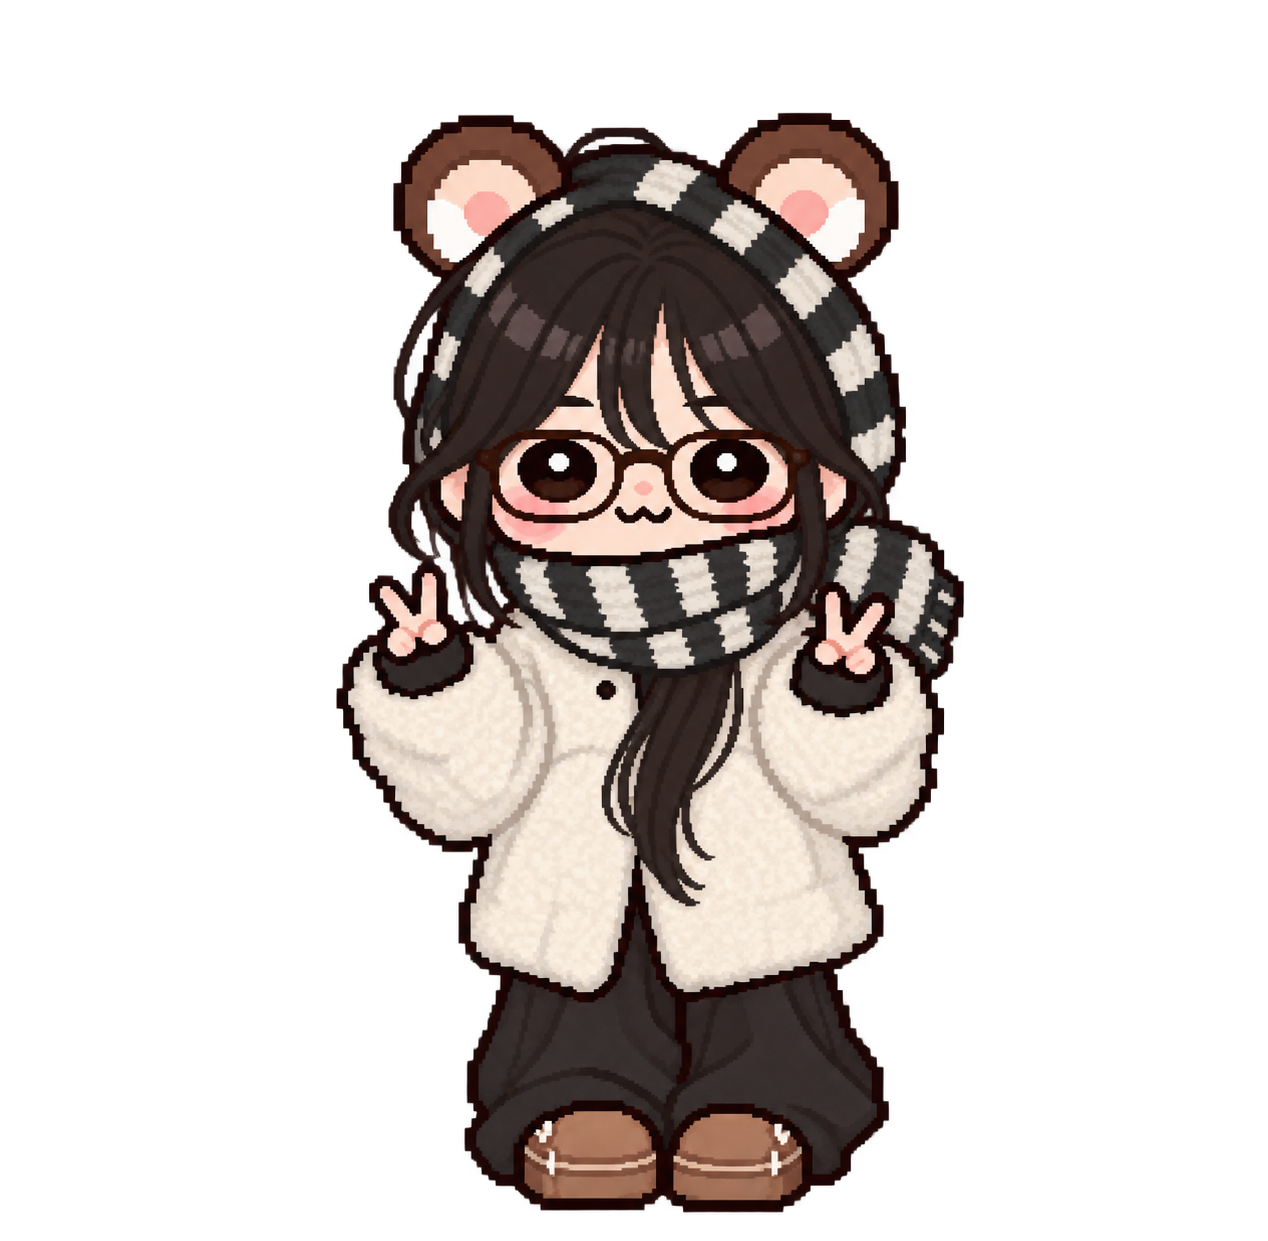
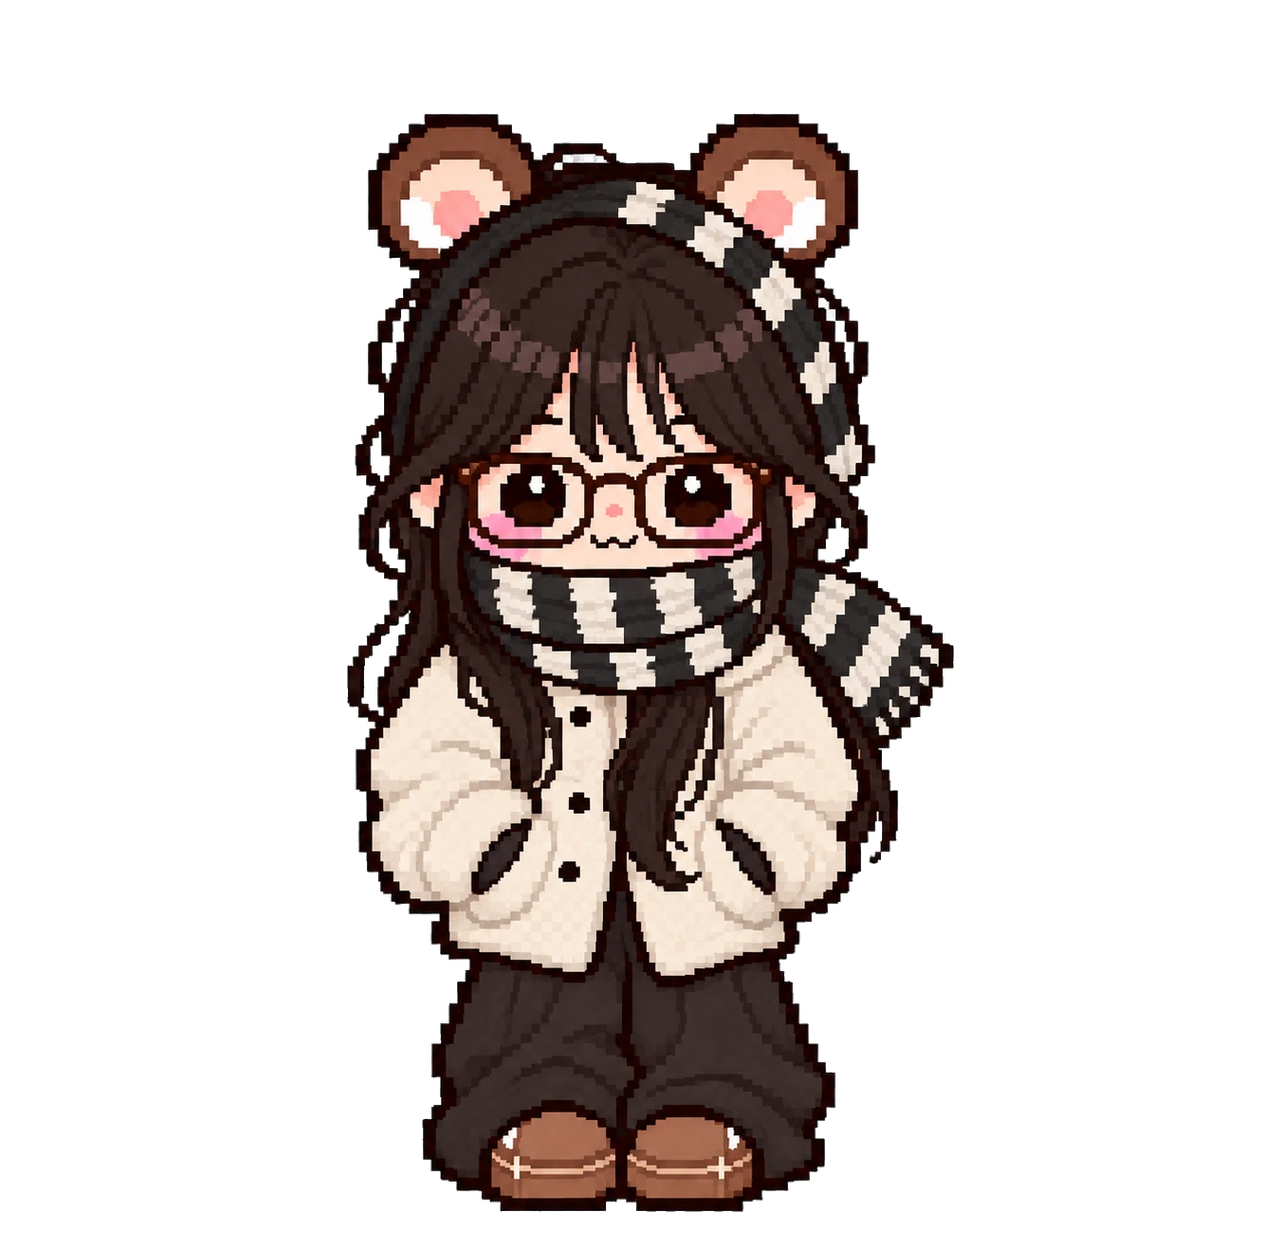
Replace woman character 68, harden monthly purchase, thicken heart link
- New art for woman character (68) with a real transparent background
- Buy the monthly plan straight from the store when RevenueCat offerings
  fail to load (e.g. an offering still lists a removed annual product)
- Draw link_heart_2 a little thicker (Flutter and Android in step) and
  hide the link in rooms without a friend
- pubspec.lock dependency refresh

Changed region(s): [[0.2461, 0.0919, 0.7689, 0.9799]]

diff --git a/lib/screens/dday_widget_decorate_screen.dart b/lib/screens/dday_widget_decorate_screen.dart
@@ -150,12 +150,14 @@ class _DdayWidgetDecorateScreenState extends State<DdayWidgetDecorateScreen> {
     final migrateAlbum = savedTheme == TogetherBgTheme.albumId;
     _textColor = ddayController.textColorForRoom(id);
     _textFont = ddayController.textFontForRoom(id);
-    _link = ddayController.linkForRoom(id);
     _bubbles = ddayController.bubblesForRoom(id);
     _widgetSize = TogetherWidgetSize.s42;
     final rooms = ddayController.items.where((e) => e.id == id);
-    _cheerCtrl.text =
-        rooms.isEmpty ? '' : (rooms.first.latestCheer?.trim() ?? '');
+    final room = rooms.isEmpty ? null : rooms.first;
+    _link = (room?.hasFriend ?? false)
+        ? ddayController.linkForRoom(id)
+        : TogetherLink.none;
+    _cheerCtrl.text = room?.latestCheer?.trim() ?? '';
     _cheerDraft.value = _cheerCtrl.text;
     _lastPulledCheer = _cheerCtrl.text.trim();
     _cheerCtrl.addListener(_onCheerEdited);
@@ -324,7 +326,10 @@ class _DdayWidgetDecorateScreenState extends State<DdayWidgetDecorateScreen> {
     final theme = ddayController.bgThemeForRoom(id);
     final color = ddayController.textColorForRoom(id);
     final font = ddayController.textFontForRoom(id);
-    final link = ddayController.linkForRoom(id);
+    // Heart links only make sense with 2+ people; drop a stale solo pick.
+    final link = (_room?.hasFriend ?? false)
+        ? ddayController.linkForRoom(id)
+        : TogetherLink.none;
     // The open edit sheet owns the draft; a reload would drop a new bubble.
     final bubbles =
         _editingBubble ? _bubbles : ddayController.bubblesForRoom(id);
@@ -632,7 +637,7 @@ class _DdayWidgetDecorateScreenState extends State<DdayWidgetDecorateScreen> {
       bgOpacity: 100,
       textColor: _textColor,
       textFont: _textFont,
-      link: _link,
+      link: (_room?.hasFriend ?? false) ? _link : TogetherLink.none,
       shape: _shape,
       widgetSize: _widgetSize,
       bubbles: _bubbles,
@@ -1732,7 +1737,7 @@ class _DdayWidgetDecorateScreenState extends State<DdayWidgetDecorateScreen> {
                             ),
                             textColor: _textColor,
                             textFont: _textFont,
-                            link: _link,
+                            link: liveHasFriend ? _link : TogetherLink.none,
                             shape: _shape,
                             cornerRadius: _hostCornerDp,
                             onMePan: (_focus == _DecorateFocus.me ||
@@ -1948,11 +1953,11 @@ class _DdayWidgetDecorateScreenState extends State<DdayWidgetDecorateScreen> {
                       child: ListView.separated(
                         scrollDirection: Axis.horizontal,
                         physics: const BouncingScrollPhysics(),
-                        // Transparent, the speech-bubble tile, the link
-                        // pictures, then the backgrounds.
+                        // Transparent, the speech-bubble tile, then (only
+                        // with 2+ people) the heart link pictures, then BGs.
                         itemCount: TogetherBgTheme.choices.length +
                             1 +
-                            TogetherLink.styles.length,
+                            (liveHasFriend ? TogetherLink.styles.length : 0),
                         separatorBuilder: (_, _) => const SizedBox(width: 10),
                         itemBuilder: (context, index) {
                           if (index == 1) {
@@ -1986,7 +1991,9 @@ class _DdayWidgetDecorateScreenState extends State<DdayWidgetDecorateScreen> {
                               ),
                             );
                           }
-                          final linkCount = TogetherLink.styles.length;
+                          final linkCount = liveHasFriend
+                              ? TogetherLink.styles.length
+                              : 0;
                           if (index >= 2 && index < 2 + linkCount) {
                             final style = TogetherLink.styles[index - 2];
                             final locked = !isPremium && style.premium;

diff --git a/lib/data/together_link.dart b/lib/data/together_link.dart
@@ -10,6 +10,10 @@ typedef TogetherLinkStyle = ({
 
   /// Width / height of the picture, so it is drawn without stretching.
   double aspect,
+
+  /// Multiplies drawn height (1 = natural). Keep in step with Android
+  /// [DdayWidgetVisuals.drawImageLink] for the same link id.
+  double heightScale,
   bool premium,
 });
 
@@ -25,18 +29,22 @@ abstract final class TogetherLink {
       id: 'heart_1',
       asset: 'assets/images/link/link_heart_1.png',
       aspect: 1330 / 202,
+      heightScale: 1,
       premium: false,
     ),
     (
       id: 'heart_2',
       asset: 'assets/images/link/link_heart_2.png',
       aspect: 973 / 255,
+      // A touch thicker than the source art.
+      heightScale: 1.15,
       premium: true,
     ),
     (
       id: 'heart_3',
       asset: 'assets/images/link/link_heart_3.png',
       aspect: 1158 / 147,
+      heightScale: 1,
       premium: false,
     ),
   ];
@@ -64,8 +72,13 @@ abstract final class TogetherLink {
 
   /// Where the picture goes between each pair of neighbours (left to right,
   /// so a group gets one chain), in card coordinates.
-  static List<Rect> rects(List<Rect> boxes, double aspect) {
+  static List<Rect> rects(
+    List<Rect> boxes,
+    double aspect, {
+    double heightScale = 1,
+  }) {
     if (boxes.length < 2 || aspect <= 0) return const [];
+    final scale = heightScale <= 0 ? 1.0 : heightScale;
     final sorted = [...boxes]
       ..sort((a, b) => a.center.dx.compareTo(b.center.dx));
     final out = <Rect>[];
@@ -80,11 +93,11 @@ abstract final class TogetherLink {
               (b.top + b.height * anchorHeight)) /
           2;
       var width = gap;
-      var height = width / aspect;
+      var height = width / aspect * scale;
       final maxHeight = maxHeightShare * (a.height + b.height) / 2;
       if (height > maxHeight) {
         height = maxHeight;
-        width = height * aspect;
+        width = height * aspect / scale;
       }
       out.add(Rect.fromCenter(
         center: Offset((start + end) / 2, y),
@@ -138,7 +151,11 @@ class TogetherLinkLayer extends StatelessWidget {
     return Stack(
       clipBehavior: Clip.none,
       children: [
-        for (final rect in TogetherLink.rects(boxes, style.aspect))
+        for (final rect in TogetherLink.rects(
+          boxes,
+          style.aspect,
+          heightScale: style.heightScale,
+        ))
           Positioned.fromRect(
             rect: rect,
             child: image != null

diff --git a/lib/data/billing_controller.dart b/lib/data/billing_controller.dart
@@ -118,8 +118,8 @@ class BillingController extends ChangeNotifier {
         lastError = setup;
         return lastError;
       }
-      final offerings = await Purchases.getOfferings();
-      final package = _monthlyPackage(offerings);
+      final offerings = await _offeringsOrNull();
+      final package = offerings == null ? null : _monthlyPackage(offerings);
       final PurchaseResult result;
       if (package != null) {
         result = await Purchases.purchase(PurchaseParams.package(package));
@@ -132,8 +132,8 @@ class BillingController extends ChangeNotifier {
           lastError = 'not_found';
           debugPrint(
             'Missing monthly package for $kPremiumMonthlyProductId. '
-            'current=${offerings.current?.identifier} '
-            'offerings=${offerings.all.keys.toList()}',
+            'current=${offerings?.current?.identifier} '
+            'offerings=${offerings?.all.keys.toList()}',
           );
           return lastError;
         }
@@ -198,7 +198,8 @@ class BillingController extends ChangeNotifier {
   Future<void> _fetchMonthlyPrice() async {
     if (await _ensureConfigured() != null) return;
     try {
-      final package = _monthlyPackage(await Purchases.getOfferings());
+      final offerings = await _offeringsOrNull();
+      final package = offerings == null ? null : _monthlyPackage(offerings);
       var price = package?.storeProduct.priceString;
       if (price == null) {
         final product = _monthlyProduct(
@@ -389,6 +390,18 @@ class BillingController extends ChangeNotifier {
     } catch (error) {
       _loggedInUid = null;
       debugPrint('Purchases.logIn: $error');
+    }
+  }
+
+  /// RevenueCat offerings, or null when they cannot be loaded (for example an
+  /// offering still lists a product removed from the store). The caller then
+  /// asks the store for [kPremiumMonthlyProductId] directly.
+  Future<Offerings?> _offeringsOrNull() async {
+    try {
+      return await Purchases.getOfferings();
+    } catch (error) {
+      debugPrint('[billing] offerings unavailable, using the product: $error');
+      return null;
     }
   }
 

diff --git a/android/app/src/main/kotlin/com/quotation/quotation/DdayWidgetVisuals.kt b/android/app/src/main/kotlin/com/quotation/quotation/DdayWidgetVisuals.kt
@@ -337,7 +337,7 @@ object DdayWidgetVisuals {
           boxes.add(RectF(frLeft, frTop, frLeft + friendW, frTop + friendH))
         }
       }
-      drawImageLink(canvas, linkBmp, boxes, isPixel)
+      drawImageLink(canvas, linkBmp, boxes, isPixel, linkAsset)
       linkBmp.recycle()
     }
 
@@ -448,9 +448,18 @@ object DdayWidgetVisuals {
    * The link picture between each character and its right-hand neighbour,
    * with its own proportions: only its size follows the gap.
    */
-  private fun drawImageLink(canvas: Canvas, bmp: Bitmap, boxes: List<RectF>, isPixel: Boolean) {
+  private fun drawImageLink(
+      canvas: Canvas,
+      bmp: Bitmap,
+      boxes: List<RectF>,
+      isPixel: Boolean,
+      linkAsset: String = "",
+  ) {
     if (boxes.size < 2 || bmp.width <= 0 || bmp.height <= 0) return
     val aspect = bmp.width.toFloat() / bmp.height
+    // Same as Flutter TogetherLinkStyle.heightScale for heart_2.
+    val heightScale =
+        if (linkAsset.contains("link_heart_2")) 1.15f else 1f
     val paint =
         Paint().apply {
           isFilterBitmap = !isPixel
@@ -467,11 +476,11 @@ object DdayWidgetVisuals {
       val y =
           ((a.top + a.height() * LINK_ANCHOR_HEIGHT) + (b.top + b.height() * LINK_ANCHOR_HEIGHT)) / 2f
       var width = gap
-      var height = width / aspect
+      var height = width / aspect * heightScale
       val maxHeight = LINK_MAX_HEIGHT_SHARE * (a.height() + b.height()) / 2f
       if (height > maxHeight) {
         height = maxHeight
-        width = height * aspect
+        width = height * aspect / heightScale
       }
       val cx = (start + end) / 2f
       canvas.drawBitmap(

diff --git a/lib/data/character_art_insets.dart b/lib/data/character_art_insets.dart
@@ -117,7 +117,7 @@ class CharacterArtInsets {
     'character (65).png': CharacterArtInsets(1.0218, 0.271, 0.186, 0.063, 0.028),
     'character (66).png': CharacterArtInsets(1.0218, 0.278, 0.187, 0.072, 0.030),
     'character (67).png': CharacterArtInsets(1.0218, 0.258, 0.278, 0.078, 0.015),
-    'character (68).png': CharacterArtInsets(1.0218, 0.265, 0.240, 0.090, 0.023),
+    'character (68).png': CharacterArtInsets(1.0218, 0.274, 0.248, 0.091, 0.023),
     'character (69).png': CharacterArtInsets(1.0218, 0.293, 0.295, 0.070, 0.017),
     'character (70).png': CharacterArtInsets(1.0218, 0.285, 0.262, 0.059, 0.019),
     'character (71).png': CharacterArtInsets(1.0218, 0.289, 0.273, 0.075, 0.021),
